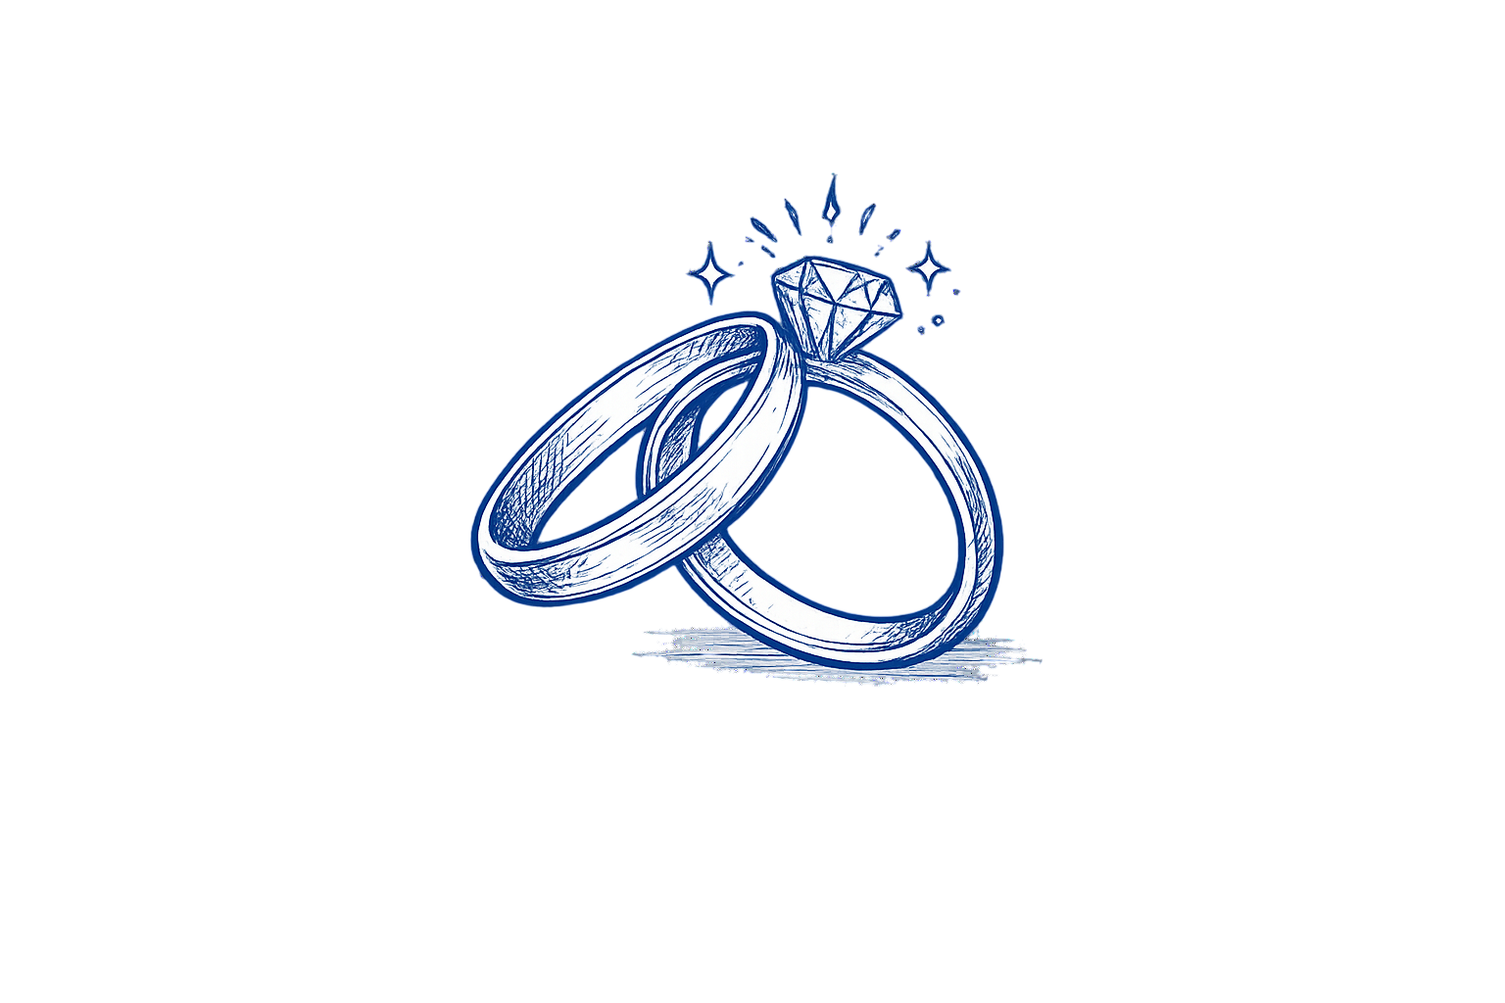
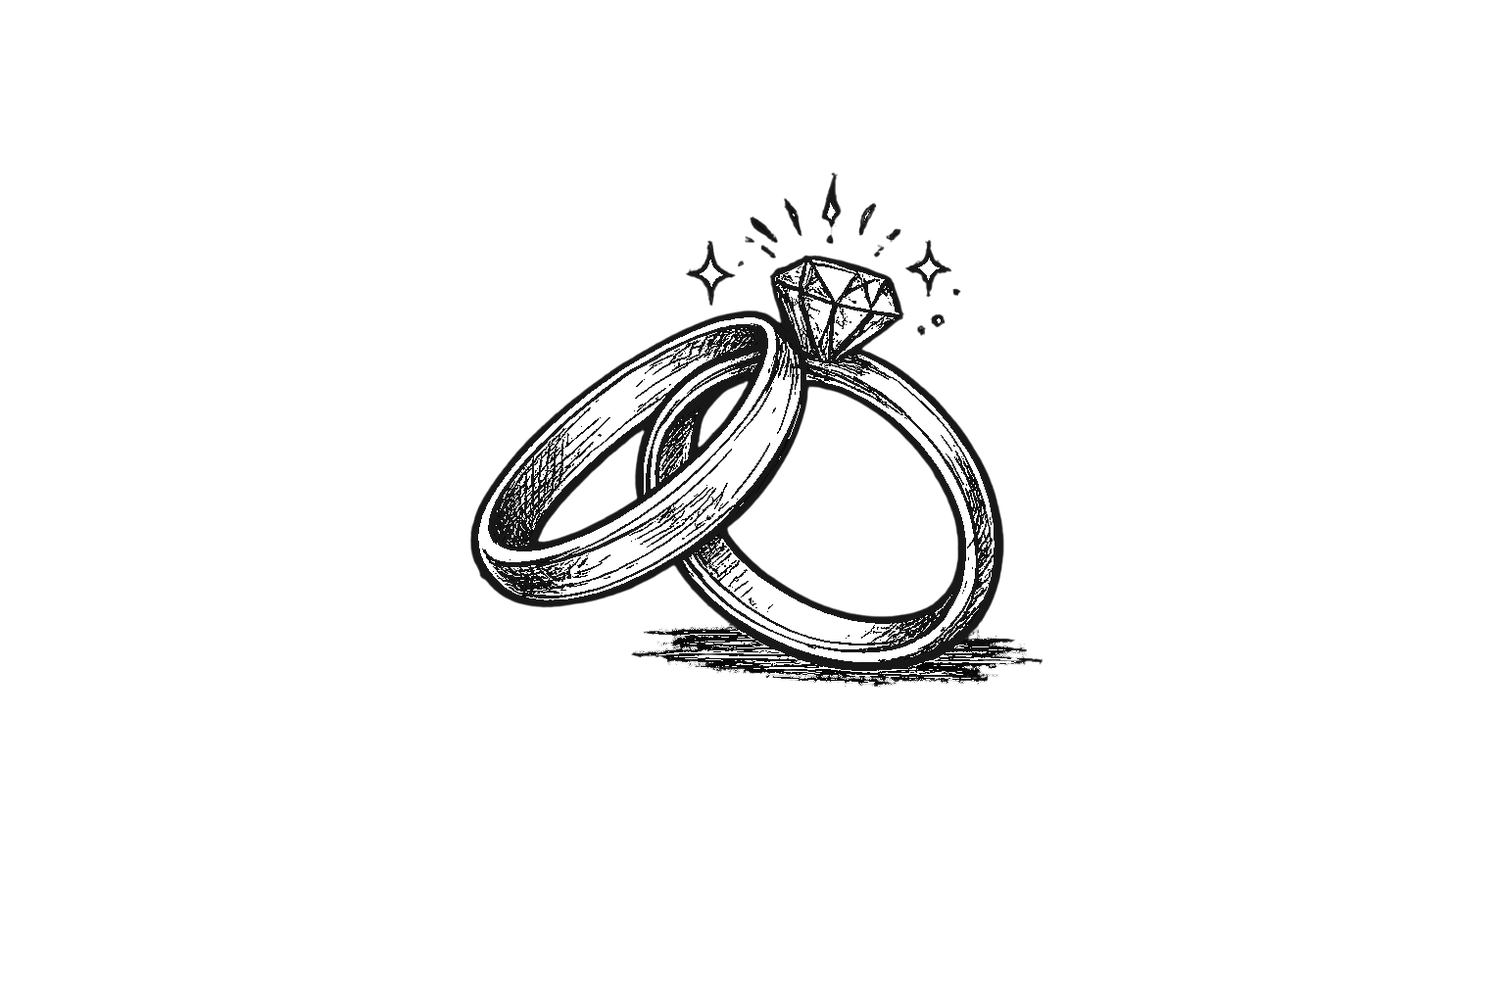
Add files via upload

Changed region(s): [[0.3125, 0.1875, 0.6875, 0.6875]]

diff --git a/index.html b/index.html
@@ -5,8 +5,15 @@
     <meta name="viewport" content="width=device-width, initial-scale=1.0">
     <title>Свадьба Андрея и Николь</title>
     <style>
-        body { background-color: #111E2E !important; margin: 0; padding: 20px 10px; }
-        p, div, span, h1, h2, h3, a, td { color: #1A3E68 !important; font-family: 'Segoe Script', 'Gabriola', cursive !important; font-weight: bold !important; line-height: 1.4; }
+        body { background-color: #FFF1E6 !important; margin: 0; padding: 20px 10px; }
+        
+        p, div, span, h1, h2, h3, a, td { 
+            color: #1A3E68 !important; 
+            font-family: 'Segoe Script', 'Gabriola', cursive !important; 
+            font-weight: bold !important; 
+            line-height: 1.4; 
+        }
+        
         .main-wrapper { width: 100%; max-width: 460px; margin: 0 auto; box-sizing: border-box; }
         .content-table { width: 100%; border-collapse: collapse; table-layout: fixed; background-color: #FFF1E6; border: 1px solid #1A3E68; border-radius: 4px; }
         .section-cell { padding-bottom: 35px; text-align: center; position: relative; }
@@ -15,8 +22,7 @@
             box-sizing: border-box; background-color: #FFF1E6;
             border: 45px solid transparent; border-image-source: url('frame.png');
             border-image-slice: 15% 12% 15% 12%; border-image-repeat: repeat;
-            padding: 10px 5px 0 5px; text-align: center;
-            position: relative; 
+            padding: 10px 5px 0 5px; text-align: center; position: relative; 
         }
         .timing-framed-card {
             box-sizing: border-box; background-color: #FFF1E6;
@@ -26,44 +32,29 @@
         }
         .img-box { display: block; margin: 0 auto; max-width: 100%; height: auto; background: transparent !important; }
         
-        .cupid-top-left {
-            position: absolute;
-            top: -20px;
-            left: -15px;
-            width: 110px;
-            z-index: 10;
-        }
-
-        .rings-top-right {
-            position: absolute;
-            top: -20px;
-            right: -10px;
-            width: 105px;
-            z-index: 10;
-        }
-
+        .cupid-top-left { position: absolute; top: -20px; left: -15px; width: 110px; z-index: 10; }
+        .rings-top-right { position: absolute; top: -20px; right: -10px; width: 105px; z-index: 10; }
         .ribbon-w { max-width: 340px; margin: 0 auto 0 auto; position: relative; z-index: 5; }
         .couple-w { max-width: 320px; margin: 0 auto 10px auto; }
         .table-w { max-width: 340px; margin: 20px auto 0 auto; }
         .cupid-w { max-width: 100px; margin: 15px auto 10px auto; }
-        .car-w { max-width: 240px; margin: 30px auto 10px auto; }
+        .car-w { max-width: 240px; margin: 15px auto 10px auto; }
         
-        /* ЦВЕТ ИЗМЕНЕН НА СИНИЙ, ОТСТУП УМЕНЬШЕН ЕЩЕ В 2 РАЗА */
         .handwritten-date { 
-            font-size: 24px !important; 
-            color: #1A3E68 !important; /* Глубокий синий цвет в тон ленты */
-            margin-top: -55px !important; /* Принудительно подтягивает дату вплотную */
-            margin-bottom: 20px !important; /* Комфортный зазор до фотографии пары */
-            text-align: center; 
-            position: relative;
-            z-index: 6;
+            font-size: 24px !important; color: #1A3E68 !important; 
+            margin-top: -55px !important; margin-bottom: 20px !important; 
+            text-align: center; position: relative; z-index: 6;
         }
-
         .timing-internal-table { width: 100%; border-collapse: collapse; }
         .t-side-img { width: 90px; text-align: center; vertical-align: middle; padding: 12px 0; }
         .t-side-text { text-align: left; vertical-align: middle; font-size: 16px !important; padding: 12px 0 12px 10px; }
         .t-border-dashed td { border-bottom: 1px dashed #1A3E68; }
         .t-img-rings { max-width: 75px; } .t-img-glasses { max-width: 75px; } .t-img-shampan { max-width: 65px; } .t-img-firework { max-width: 70px; }
+        .t-img-rings img, .t-img-glasses img, .t-img-shampan img, .t-img-firework img,
+        .cupid-top-left img, .rings-top-right img {
+            filter: invert(22%) sepia(85%) saturate(800%) hue-rotate(200deg) brightness(90%);
+        }
+        .t-img-rings { max-width: 115px; }
         .timing-time-val { color: #B54F49 !important; font-size: 20px !important; display: inline-block; margin-right: 5px; }
         .title-text { font-size: 32px !important; margin: 10px 0; text-align: center; position: relative; display: inline-block; width: 100%; }
         .main-p { font-size: 16px !important; line-height: 1.5; margin: 10px 0; text-align: center; }
@@ -87,6 +78,13 @@
         .dots-table { margin: 15px auto; border-collapse: collapse; }
         .dot-c { width: 30px; height: 30px; border-radius: 50%; display: block; }
         .kids-border-box { border: 1px dashed #B54F49; border-radius: 12px; padding: 15px; width: 100%; box-sizing: border-box; }
+        .vetka { position: absolute; width: 90px; pointer-events: none; z-index: 10; }
+        .vetka-tl { top: -10px; left: -10px; transform: scaleX(-1); }
+        .vetka-tr { top: -10px; right: -10px; }
+        .vetka-bl { bottom: -10px; left: -10px; transform: scale(-1,-1); }
+        .vetka-br { bottom: -10px; right: -10px; transform: scaleY(-1); }
+        .scatter { position: relative; }
+        .s { position: absolute; font-weight: normal !important; pointer-events: none; line-height: 1; }
     </style>
 </head>
 <body>
@@ -95,14 +93,11 @@
             <tr>
                 <td style="padding: 0; margin: 0;">
                     <div class="top-framed-card">
-                        
                         <div class="cupid-top-left"><img src="cupid-flying.png" class="img-box"></div>
                         <div class="rings-top-right"><img src="rings-top.png" class="img-box"></div>
-                        
                         <div class="ribbon-w"><img src="ribbon.png" class="img-box"></div>
                         <div class="handwritten-date">18 июля 2026</div>
                         <div class="couple-w"><img src="couple.png" class="img-box"></div>
-                        
                         <div class="title-text">
                             <div class="decor-cluster-box">
                                 <span class="h-floating h-blue pos-g1">♡</span><span class="h-floating h-red pos-g2">♡</span>
@@ -112,6 +107,13 @@
                         </div>
                         <div class="main-p" style="margin-top: 15px;">Совсем скоро наступит день, который станет для нас особенным.</div>
                         <div class="main-p">С огромной радостью и большой любовью приглашаем вас разделить с нами этот волшебный и важный момент нашей жизни!</div>
+                        <div style="position:relative; height:18px; margin: 5px 0;">
+                            <span class="s h-red" style="left:8%; top:0; font-size:10px;">♡</span>
+                            <span class="s h-blue" style="left:20%; top:3px; font-size:8px;">✦</span>
+                            <span class="s h-red" style="left:75%; top:0; font-size:9px;">♡</span>
+                            <span class="s h-blue" style="left:88%; top:2px; font-size:8px;">✦</span>
+                            <span class="s h-blue" style="left:50%; top:1px; font-size:7px;">·</span>
+                        </div>
                         <div class="divider"></div>
                         <div class="title-text calendar-title-space">Июль 2026</div>
                         <table class="cal-table">
@@ -127,13 +129,17 @@
                             </tr>
                         </table>
                         <div class="table-w" style="padding-bottom: 10px;"><img src="table.png" class="img-box"></div>
+                        <img src="vetka.png" class="vetka vetka-bl" alt="">
+                        <img src="vetka.png" class="vetka vetka-br" alt="">
                     </div>
                 </td>
             </tr>
-            <!-- РАМКА 2: Тайминг с облаком летающих сердечек -->
+            <!-- РАМКА 2: Тайминг -->
             <tr>
                 <td style="padding: 0; margin: 0;">
                     <div class="timing-framed-card">
+                        <img src="vetka.png" class="vetka vetka-tl" alt="">
+                        <img src="vetka.png" class="vetka vetka-tr" alt="">
                         <div class="title-text" style="margin-top: 0;">
                             <div class="decor-cluster-box">
                                 <span class="h-floating h-red" style="top: -10px; left: 15px; transform: rotate(-15deg);">♡</span>
@@ -144,81 +150,127 @@
                         <table class="timing-internal-table">
                             <tr class="t-border-dashed">
                                 <td class="t-side-img"><div class="t-img-rings"><img src="rings.png" class="img-box"></div></td>
-                                <td class="t-side-text"><span class="timing-time-val">13:15</span> – Торжественная церемония (ЗАГС)</td>
+                                <td class="t-side-text" style="position:relative;"><span class="timing-time-val">13:15</span> – Торжественная церемония
+                                    <span class="s h-red" style="right:5px; top:8px; font-size:9px;">♡</span>
+                                </td>
                             </tr>
                             <tr class="t-border-dashed">
-                                <td class="t-side-img"><div class="t-img-glasses"><img src="glasses.png" class="img-box"></div></td>
-                                <td class="t-side-text"><span class="timing-time-val">15:00</span> – Сбор гостей</td>
+                                <td class="t-side-img"><div class="t-img-glasses"><img src="shampan.png" class="img-box"></div></td>
+                                <td class="t-side-text" style="position:relative;"><span class="timing-time-val">15:00</span> – Сбор гостей
+                                    <span class="s h-blue" style="right:5px; top:8px; font-size:8px;">✦</span>
+                                </td>
                             </tr>
                             <tr class="t-border-dashed">
-                                <td class="t-side-img"><div class="t-img-shampan"><img src="shampan.png" class="img-box"></div></td>
-                                <td class="t-side-text"><span class="timing-time-val">16:00</span> – Праздничный ужин</td>
+                                <td class="t-side-img"><div class="t-img-shampan"><img src="glasses.png" class="img-box"></div></td>
+                                <td class="t-side-text" style="position:relative;"><span class="timing-time-val">16:00</span> – Праздничный ужин
+                                    <span class="s h-red" style="right:5px; top:8px; font-size:9px;">♡</span>
+                                </td>
                             </tr>
                             <tr>
                                 <td class="t-side-img"><div class="t-img-firework"><img src="firework.png" class="img-box"></div></td>
-                                <td class="t-side-text"><span class="timing-time-val">22:00</span> – Заключение вечера</td>
+                                <td class="t-side-text" style="position:relative;"><span class="timing-time-val">22:00</span> – Заключение вечера
+                                    <span class="s h-blue" style="right:8px; top:6px; font-size:9px;">♪</span>
+                                    <span class="s h-red" style="right:22px; top:14px; font-size:8px;">♡</span>
+                                </td>
                             </tr>
                         </table>
+                        <img src="vetka.png" class="vetka vetka-bl" alt="">
+                        <img src="vetka.png" class="vetka vetka-br" alt="">
                     </div>
                 </td>
             </tr>
-
-            <!-- ТРЕТИЙ ЭТАЖ: Дресс-код, дети и карта -->
+            
+            <!-- ТРЕТИЙ ЭТАЖ: Дресс-код и дети -->
             <tr>
-                <td class="section-cell" style="padding: 35px 25px 35px 25px;">
-                    <div class="title-text">
-                        <div class="decor-cluster-box">
-                            <span class="h-floating h-blue" style="top: -15px; left: -20px; transform: rotate(-10deg);">♡</span>
-                            Для нас главное — вы!
-                            <span class="h-floating h-red" style="bottom: -10px; right: 15px; transform: rotate(15deg);">♡</span>
-                        </div>
-                    </div>
-                    <div class="main-p">Но мы будем рады, если дамы выберут наряды пастельных оттенков, а джентльмены — классический костюм, брюки и рубашку.</div>
-                    
-                    <div class="cupid-w"><img src="cupid.png" class="img-box" alt="Купидон"></div>
-                    
-                    <table class="dots-table">
+                <td style="padding: 0; background-color: #FFF1E6;">
+                    <table style="width: 100%; border-collapse: collapse; height: 100%;">
                         <tr>
-                            <td style="padding: 0 5px;"><span class="dot-c" style="background: #EED9CE;"></span></td>
-                            <td style="padding: 0 5px;"><span class="dot-c" style="background: #F4EAD4;"></span></td>
-                            <td style="padding: 0 5px;"><span class="dot-c" style="background: #E5EADF;"></span></td>
-                            <td style="padding: 0 5px;"><span class="dot-c" style="background: #DBE5F0;"></span></td>
-                            <td style="padding: 0 5px;"><span class="dot-c" style="background: #F5E2DA;"></span></td>
+                            <td style="vertical-align: middle; padding: 35px 25px 0 25px; text-align: center; position: relative; background-color: #FFF1E6;">
+                                <img src="vetka.png" class="vetka vetka-tl" alt="">
+                                <div class="title-text">
+                                    <div class="decor-cluster-box">
+                                        <span class="h-floating h-blue" style="top: -15px; left: -20px; transform: rotate(-10deg);">♡</span>
+                                        Для нас главное — вы!
+                                        <span class="h-floating h-red" style="bottom: -10px; right: 15px; transform: rotate(15deg);">♡</span>
+                                    </div>
+                                </div>
+                                <div class="main-p">В этот особенный день мы будем рады видеть вас в нарядах, отражающих атмосферу нашего праздника. Пожалуйста, воздержитесь от белого цвета (он зарезервирован для невесты), а также от слишком ярких, неоновых оттенков. Будем благодарны за выбор элегантных и гармоничных образов!</div>
+                                <div class="cupid-w"><img src="cupid.png" class="img-box" alt="Купидон"></div>
+                            </td>
+                        </tr>
+                        <tr>
+                            <td colspan="2" class="section-cell" style="padding: 15px 25px 35px 25px; background-color: #FFF1E6;">
+                                <div class="kids-border-box" style="position: relative;">
+                                    <span class="h-floating h-red" style="top: 5px; left: 10px; transform: rotate(-20deg);">♡</span>
+                                    <span class="h-floating h-blue" style="bottom: 5px; right: 10px; transform: rotate(25deg);">♡</span>
+                                    <div class="main-p sub-text" style="margin: 0; padding: 0 10px;">Мы очень любим детей, однако формат нашего праздника предполагает мероприятие только для взрослых гостей. Благодарим за понимание.</div>
+                                </div>
+                                <div style="position:relative; height:20px; margin-top:10px;">
+                                    <span class="s h-red" style="left:15%; top:2px; font-size:10px;">♡</span>
+                                    <span class="s h-blue" style="left:30%; top:0; font-size:8px;">✦</span>
+                                    <span class="s h-red" style="left:55%; top:3px; font-size:9px;">♡</span>
+                                    <span class="s h-blue" style="left:70%; top:1px; font-size:8px;">✦</span>
+                                    <span class="s h-red" style="left:85%; top:2px; font-size:9px;">♡</span>
+                                </div>
+                            </td>
                         </tr>
                     </table>
                 </td>
             </tr>
             
+            <!-- РАМКА 3: МЕСТО ПРОВЕДЕНИЯ С ИСПРАВЛЕННЫМИ ОТСТУПАМИ -->
             <tr>
-                <td class="section-cell" style="padding: 0 25px 35px 25px;">
-                    <div class="kids-border-box" style="position: relative;">
-                        <span class="h-floating h-red" style="top: 5px; left: 10px; transform: rotate(-20deg);">♡</span>
-                        <span class="h-floating h-blue" style="bottom: 5px; right: 10px; transform: rotate(25deg);">♡</span>
-                        <div class="main-p sub-text" style="margin: 0; padding: 0 10px;">Мы очень любим детей, однако формат нашего праздника предполагает мероприятие только для взрослых гостей. Благодарим за понимание.</div>
+                <td style="padding: 0; margin: 0;">
+                    <div style="box-sizing: border-box; background-color: #FFF1E6; background-image: url('frame-map.png') !important; background-size: 100% 100% !important; background-repeat: no-repeat !important; background-position: center !important; padding: 90px 45px 75px 45px; text-align: center; margin: 20px auto 0 auto; max-width: 410px; width: 100%;">
+                        
+                        <div class="title-text" style="margin-top: 0; margin-bottom: 5px;">
+                            <div class="decor-cluster-box">
+                                <span class="h-floating h-blue" style="top: -8px; left: 15px; transform: rotate(-25deg);">♡</span>
+                                <span class="h-floating h-red" style="top: 22px; left: -10px; transform: rotate(15deg);">♡</span>
+                                Место проведения
+                                <span class="h-floating h-red" style="top: 28px; right: 10px; transform: rotate(-10deg);">♡</span>
+                            </div>
+                        </div>
+                        
+                        <div class="place-name">Акватория</div>
+                        <div class="main-p sub-text">Нижегородская область, Городецкий округ,<br>сельский посёлок Турбазы</div>
+                        
+                        <a href="https://yandex.ru/maps/org/akvatoriya/1053493944/?ll=43.360431%2C56.784049&z=15" target="_blank" class="map-lnk" style="margin-bottom: 0;">📍 Показать на карте</a>
+                        
                     </div>
                 </td>
             </tr>
             
+            <!-- МАШИНКА ВЫНЕСЕНА НА ЧИСТЫЙ БЕЖЕВЫЙ ФОН -->
             <tr>
-                <td class="section-cell" style="padding: 0 25px 10px 25px;">
-                    <div class="title-text">
-                        <div class="decor-cluster-box">
-                            <span class="h-floating h-blue " style="top: -8px; left: 15px; transform: rotate(-25deg);">♡</span>
-                            <span class="h-floating h-red" style="top: 22px; left: -10px; transform: rotate(15deg);">♡</span>
-                            Место проведения
-                            <span class="h-floating h-red" style="top: 28px; right: 10px; transform: rotate(-10deg);">♡</span>
-                        </div>
-                    </div>
-                    
-                    <div class="place-name">Акватория</div>
-                    <div class="main-p sub-text">Кабардино-Балкарская Республика,<br>с. Атажукино, ул. Школьная, 1А</div>
-                    
-                    <a href="https://yandex.com" target="_blank" class="map-lnk">📍 Показать на карте</a>
-                    
+                <td class="section-cell" style="padding-top: 15px; padding-bottom: 20px; position: relative;">
+                    <span class="s h-red" style="left:10px; top:10px; font-size:11px; position:absolute;">♡</span>
+                    <span class="s h-blue" style="left:25px; top:25px; font-size:8px; position:absolute;">✦</span>
+                    <span class="s h-red" style="right:10px; top:10px; font-size:10px; position:absolute;">♡</span>
+                    <span class="s h-blue" style="right:28px; top:28px; font-size:8px; position:absolute;">✦</span>
                     <div class="car-w"><img src="car.png" class="img-box"></div>
+                    <span class="s h-red" style="left:15px; bottom:15px; font-size:10px; position:absolute;">♡</span>
+                    <span class="s h-red" style="right:15px; bottom:15px; font-size:9px; position:absolute;">♡</span>
                 </td>
             </tr>
         </table>
     </div>
+</body>
+<script>
+    function resizeVetka() {
+        var cell = document.getElementById('vetka-cell');
+        var img = document.getElementById('big-vetka-img');
+        if (cell && img) {
+            var h = cell.parentElement.offsetHeight;
+            if (h > 0) {
+                img.style.height = h + 'px';
+                img.style.width = 'auto';
+                img.style.maxWidth = '85px';
+            }
+        }
+    }
+    window.addEventListener('load', resizeVetka);
+    window.addEventListener('resize', resizeVetka);
+</script>
 </body>
 </html>
